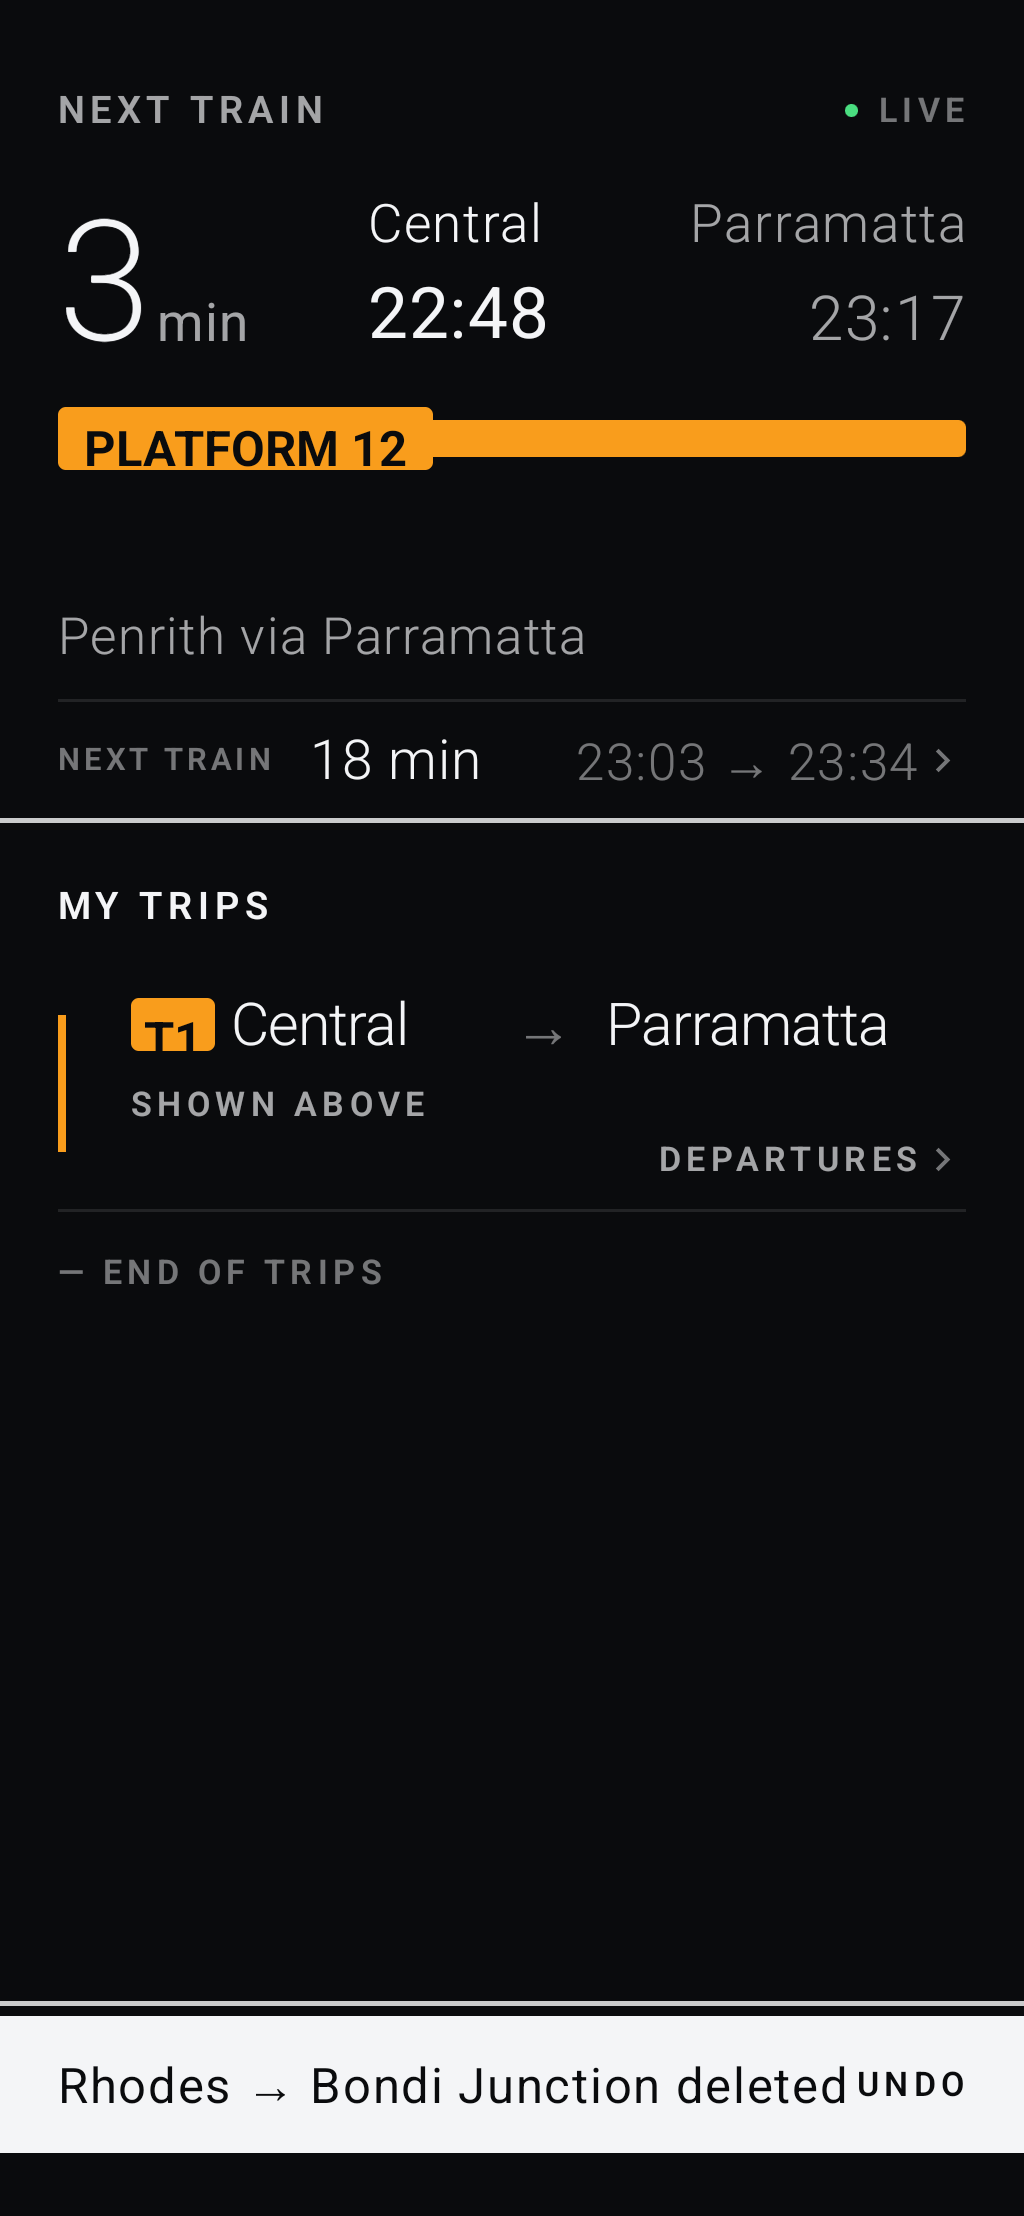
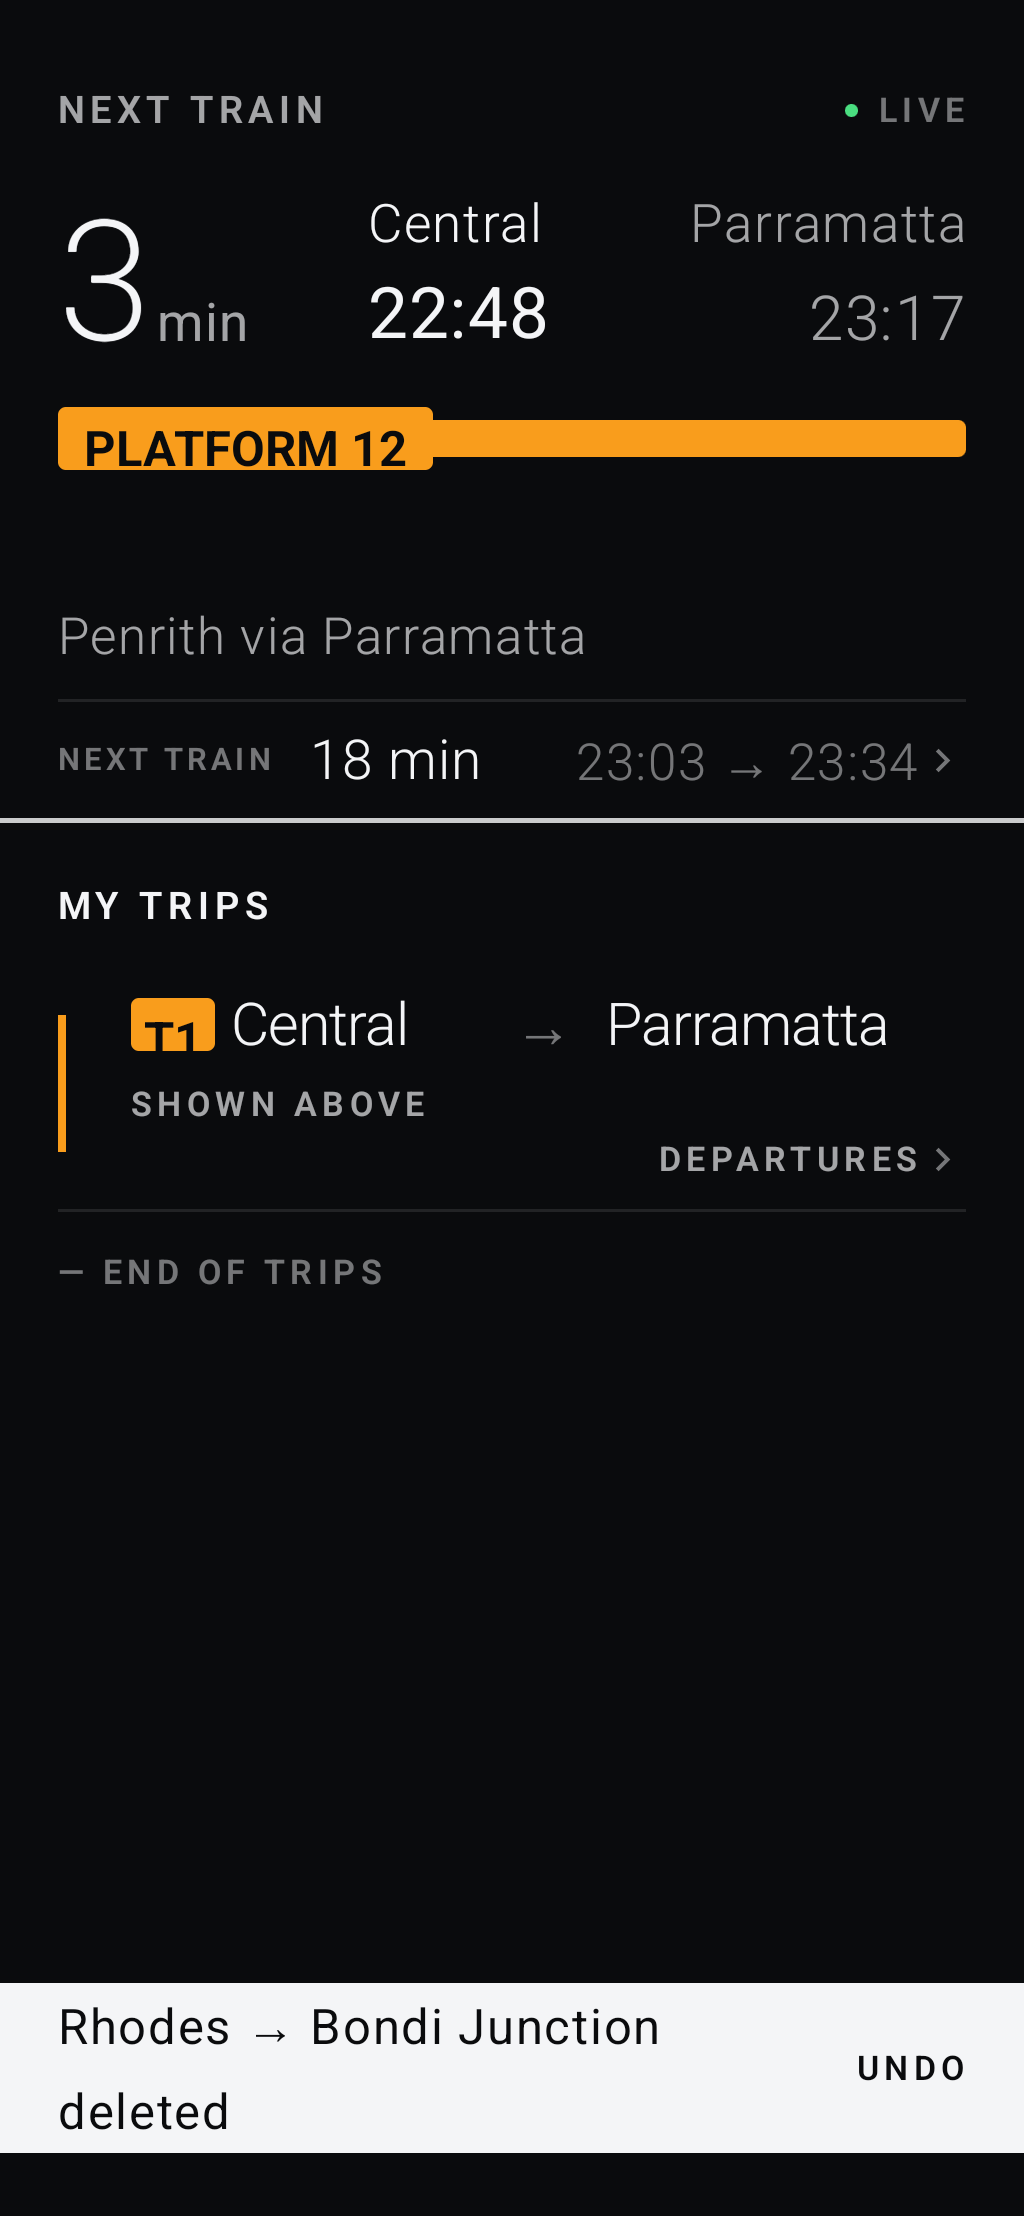
swipe-to-delete: let the deletion bar wrap to two lines at large text

Changed region(s): [[0.0, 0.8718, 1.0, 0.9653]]

diff --git a/docs/backlog/swipe-to-delete/comps/index.html b/docs/backlog/swipe-to-delete/comps/index.html
@@ -45,13 +45,16 @@
 <p class="note">The row is held just past the halfway point, where releasing
 commits. The background runs edge to edge, like Gmail; the label sits on the
 page margin. Once released the row fades out and the bar appears. The 412-wide
-phone is the same composition; the enlarged-text frame shows the bar text
-filling its one line exactly, which is the widest it can get before clipping.</p>
+phone is the same composition. At enlarged text the bar message wraps to a
+second line rather than losing its last word; the first cut of this frame
+squeezed <b>UNDO</b> against the text and then dropped &ldquo;deleted&rdquo;,
+both fixed. The clipped <b>T1</b> chip in that frame is how the line chip
+already renders at 1.3&times; on every row, not part of this item.</p>
 <div class="row">
   <figure><img src="android-home-390x844-deleting.png"><figcaption><b>Mid-drag</b> &mdash; 390&times;844</figcaption></figure>
   <figure><img src="android-home-390x844-deleted.png"><figcaption><b>Deleted</b> &mdash; bar reads the trip, label is Undo</figcaption></figure>
   <figure><img src="android-home-412x732-deleting.png"><figcaption><b>Mid-drag</b> &mdash; 412&times;732</figcaption></figure>
-  <figure><img src="android-home-390x844-deleted-font13.png"><figcaption><b>Deleted</b> &mdash; text at 1.3&times;, one line, no wrap</figcaption></figure>
+  <figure><img src="android-home-390x844-deleted-font13.png"><figcaption><b>Deleted</b> &mdash; text at 1.3&times;, wraps to two lines</figcaption></figure>
 </div>
 
 <h2>iOS &middot; revealed, then deleted</h2>

diff --git a/android/app/src/main/java/com/ilovetrains/app/UiApp.kt b/android/app/src/main/java/com/ilovetrains/app/UiApp.kt
@@ -57,7 +57,7 @@ fun TrainApp(state: AppState, actions: UiActions) {
                     .heightIn(min = 52.dp).clickable(role = Role.Button, onClick = if (state.undoAvailable) actions::undoDelete else actions::dismissMessage)
                     .padding(horizontal = PagePadding), verticalAlignment = Alignment.CenterVertically) {
                     Text(message, Modifier.weight(1f), color = c.ground, fontSize = 14.sp, fontWeight = FontWeight.Normal,
-                        maxLines = if (state.undoAvailable) 1 else Int.MAX_VALUE, overflow = TextOverflow.Clip)
+                        maxLines = if (state.undoAvailable) 2 else Int.MAX_VALUE, overflow = TextOverflow.Ellipsis)
                     Spacer(Modifier.width(12.dp))
                     Label(if (state.undoAvailable) "Undo" else "Dismiss", color = c.ground)
                 }

diff --git a/ios/ILoveTrains/UI/AppView.swift b/ios/ILoveTrains/UI/AppView.swift
@@ -47,7 +47,7 @@ private struct TrainAppContent: View {
                 let undo = model.state.undoAvailable
                 Button(action: undo ? model.undoDelete : model.dismissMessage) {
                     HStack(spacing: 12) {
-                        Text(message).font(.system(size: 14, weight: .regular)).lineLimit(undo ? 1 : nil)
+                        Text(message).font(.system(size: 14, weight: .regular)).lineLimit(undo ? 2 : nil)
                             .frame(maxWidth: .infinity, alignment: .leading)
                         TrainLabel(text: undo ? "Undo" : "Dismiss", color: colors.ground)
                     }

diff --git a/docs/backlog/swipe-to-delete/design.md b/docs/backlog/swipe-to-delete/design.md
@@ -148,9 +148,10 @@ reader knows what was rejected.
 `{from}` and `{to}` are the trip's short station names, the same strings the
 row shows. The iOS swipe button and the Android revealed background both say
 `Delete`, the plain verb, matching the existing menu's `Delete trip` without
-the noun because the row itself is the noun. The bar text is truncated to
-one line with the trailing station clipped if a name is too long at the
-largest supported text size.
+the noun because the row itself is the noun. The bar text may wrap to a
+second line at large text sizes and is ellipsised beyond that, so the verb
+survives; a one-line clip dropped the word `deleted` at font scale 1.3 (build
+decision, 2026-09-07).
 
 ### Contracts and comps this item changes
 
